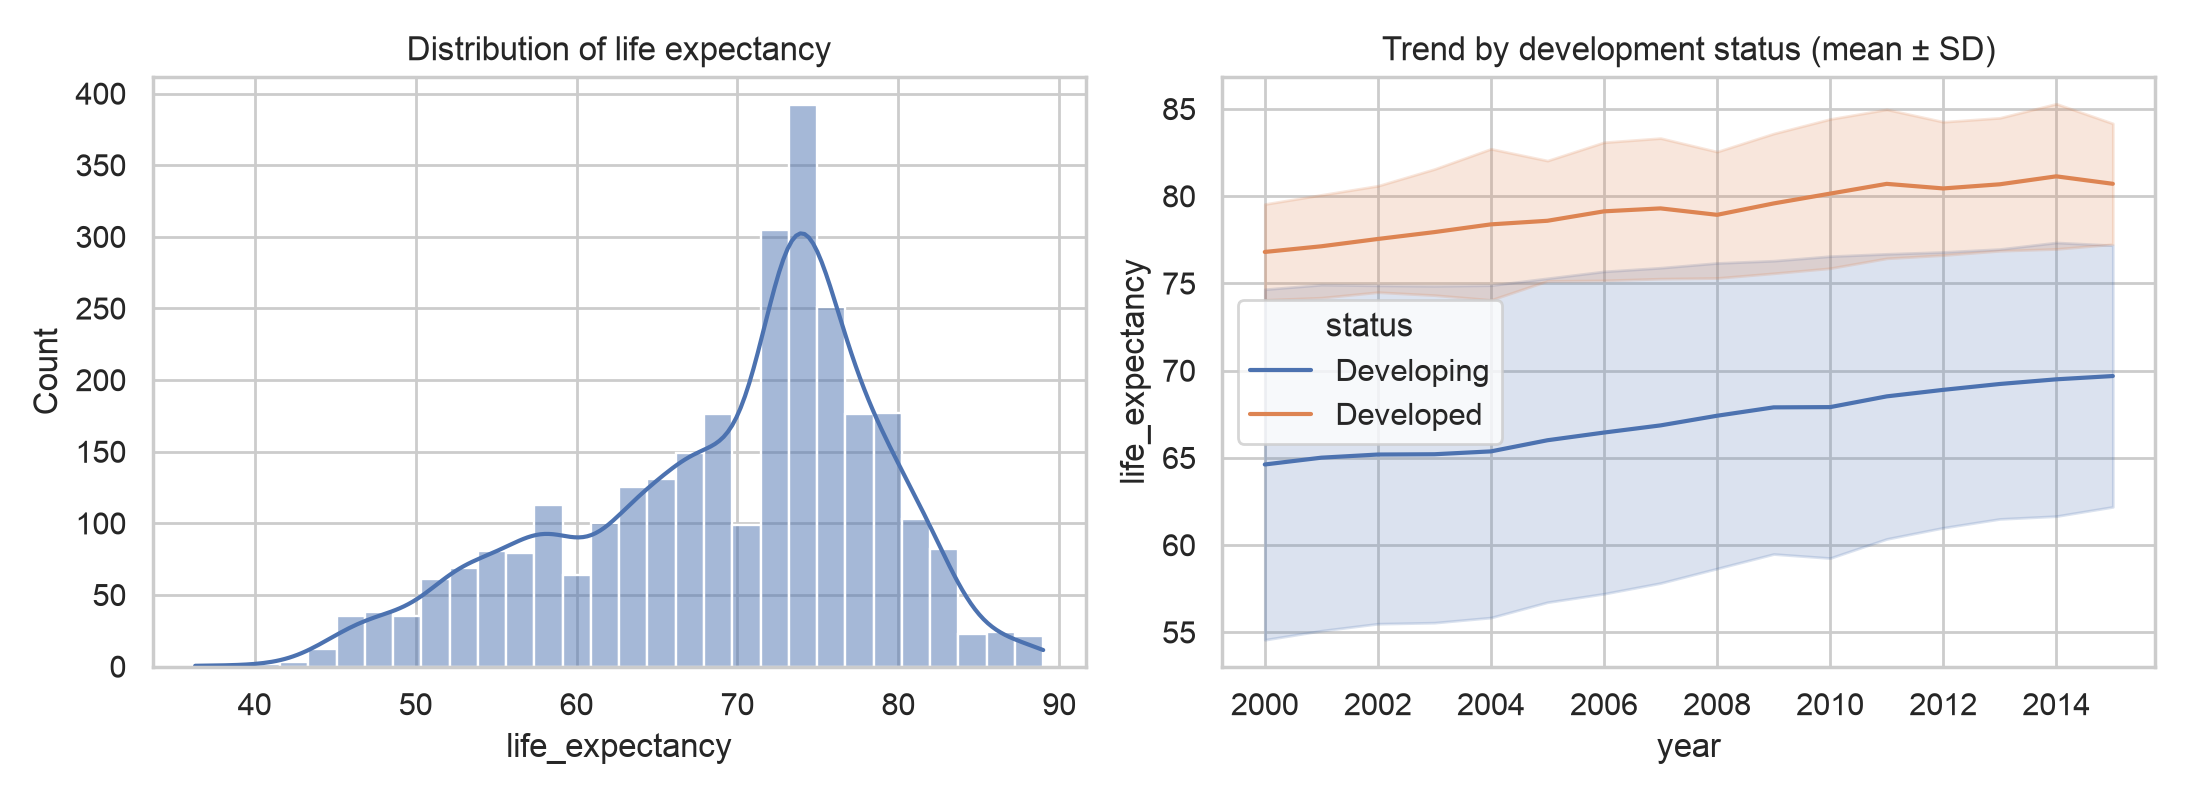
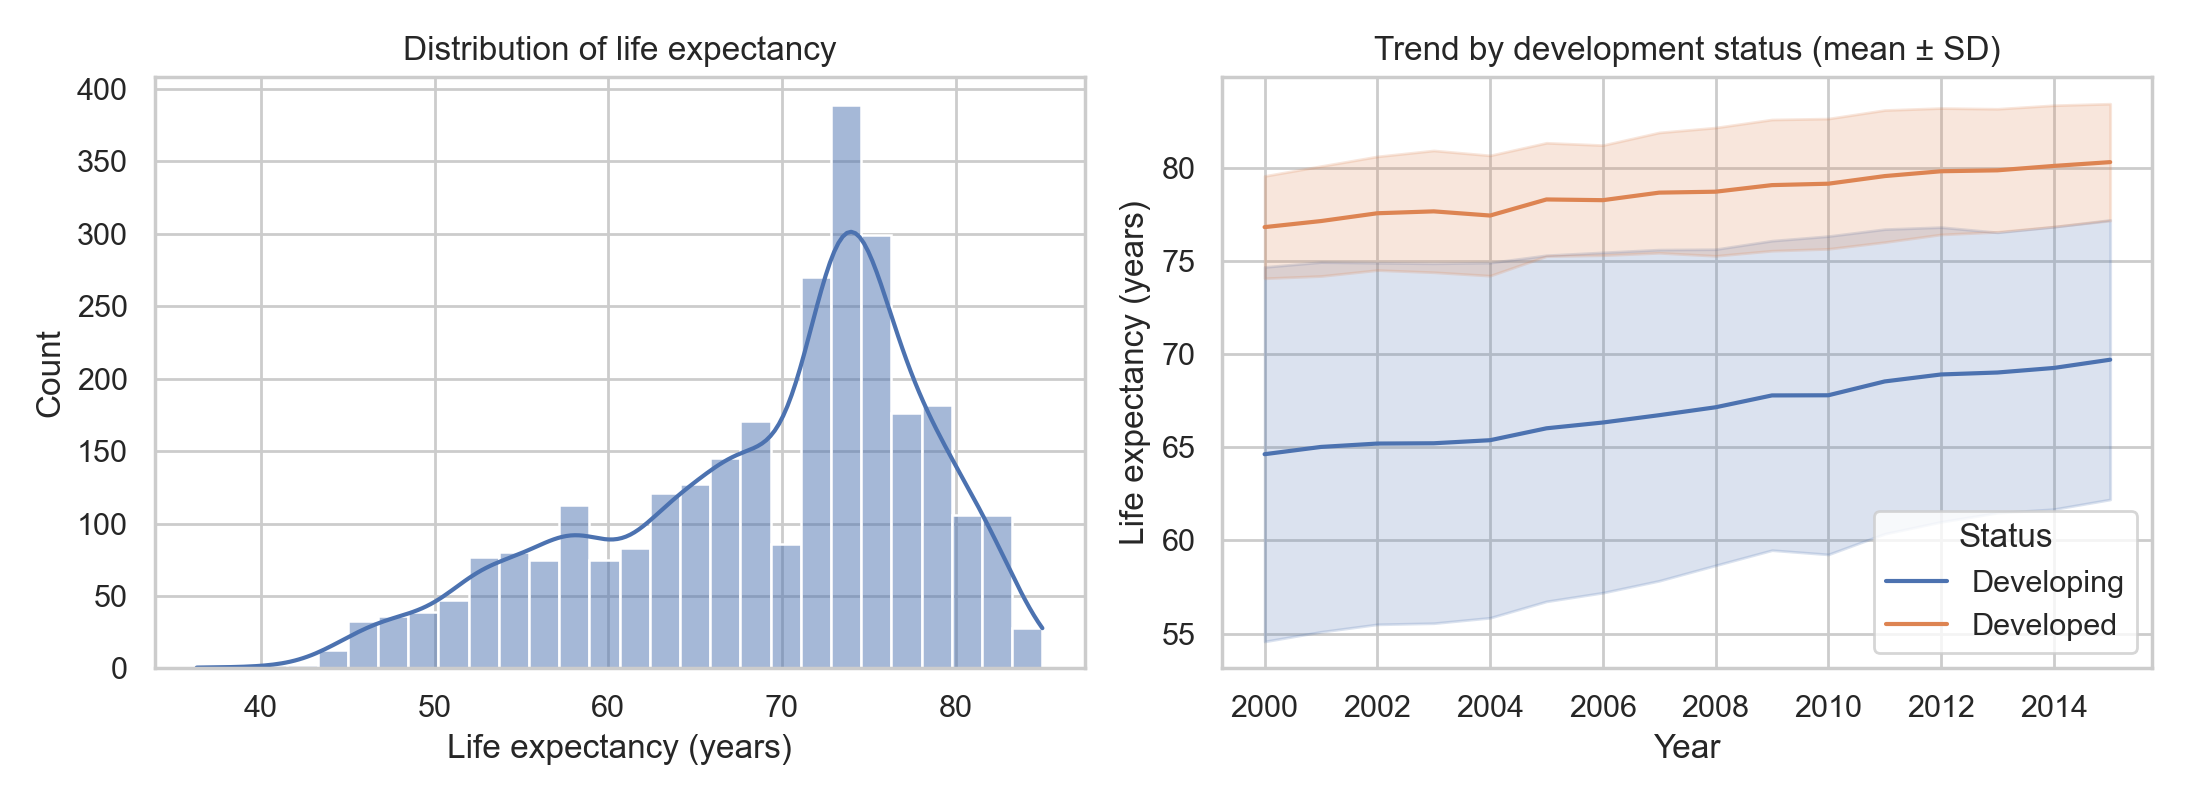
Clean implausible values, add sensitivity checks and slopes by status

diff --git a/analysis.py b/analysis.py
@@ -61,6 +61,13 @@ df = df.dropna()
 df["log_gdp"] = np.log(df["gdp"].clip(lower=1))
 df["log_hiv"] = np.log1p(df["hiv_aids"])
 df["developed"] = (df["status"] == "Developed").astype(int)
+df_full = df.copy()  # kept for the sensitivity analysis
+
+# Remove impossible values: no country's national life expectancy exceeded ~84 years in 2000-2015
+implausible = df["life_expectancy"] > 85
+print(f"Dropping {implausible.sum()} rows with life expectancy > 85 (data errors). By country:")
+print(df.loc[implausible, "country"].value_counts().head(15).to_string())
+df = df[~implausible].copy()
 print("Clean shape:", df.shape, "| countries:", df["country"].nunique())
 
 # ----------------------------------------------------------------------------
@@ -68,9 +75,10 @@ print("Clean shape:", df.shape, "| countries:", df["country"].nunique())
 # ----------------------------------------------------------------------------
 fig, ax = plt.subplots(1, 2, figsize=(11, 4))
 sns.histplot(df["life_expectancy"], kde=True, ax=ax[0])
-ax[0].set_title("Distribution of life expectancy")
+ax[0].set(title="Distribution of life expectancy", xlabel="Life expectancy (years)")
 sns.lineplot(data=df, x="year", y="life_expectancy", hue="status", errorbar="sd", ax=ax[1])
-ax[1].set_title("Trend by development status (mean ± SD)")
+ax[1].set(title="Trend by development status (mean ± SD)", xlabel="Year", ylabel="Life expectancy (years)")
+sns.move_legend(ax[1], "lower right", title="Status")
 plt.tight_layout(); plt.savefig(OUT / "figures/fig1_distribution_trend.png", dpi=200); plt.close()
 
 feats = ["adult_mortality", "log_hiv", "schooling", "income_composition_of_resources",
@@ -81,10 +89,11 @@ sns.heatmap(df[["life_expectancy"] + feats].corr(), annot=True, fmt=".2f", cmap=
 plt.title("Correlation matrix")
 plt.tight_layout(); plt.savefig(OUT / "figures/fig2_correlations.png", dpi=200); plt.close()
 
-plt.figure(figsize=(6.5, 4.5))
-sns.scatterplot(data=df, x="schooling", y="life_expectancy", hue="status", alpha=0.5)
-plt.title("Schooling vs life expectancy")
-plt.tight_layout(); plt.savefig(OUT / "figures/fig3_schooling_scatter.png", dpi=200); plt.close()
+g = sns.lmplot(data=df, x="schooling", y="life_expectancy", hue="status", height=4.5, aspect=1.4,
+               scatter_kws={"alpha": 0.3, "s": 14}, facet_kws={"legend_out": False})
+g.set_axis_labels("Schooling (years)", "Life expectancy (years)")
+g.ax.set_title("Schooling vs life expectancy (descriptive OLS lines by status)")
+g.savefig(OUT / "figures/fig3_schooling_scatter.png", dpi=200); plt.close("all")
 
 # ----------------------------------------------------------------------------
 # 3a. Inference: mixed-effects model (random intercept + random year slope per country)
@@ -96,11 +105,25 @@ plt.tight_layout(); plt.savefig(OUT / "figures/fig3_schooling_scatter.png", dpi=
 # year is included to absorb the general upward trend over time.
 model_feats = ["year", "log_hiv", "schooling", "log_gdp", "polio", "diphtheria",
                "total_expenditure", "alcohol"]
-z = df.copy()
-z[model_feats] = (z[model_feats] - z[model_feats].mean()) / z[model_feats].std()  # standardize
-
 formula = "life_expectancy ~ " + " + ".join(model_feats) + " + developed + schooling:developed"
-mixed = smf.mixedlm(formula, z, groups=z["country"], re_formula="~year").fit(reml=True)
+
+
+def standardize(d):
+    d = d.copy()
+    d[model_feats] = (d[model_feats] - d[model_feats].mean()) / d[model_feats].std()
+    return d
+
+
+def fit(d):
+    return smf.mixedlm(formula, d, groups=d["country"], re_formula="~year").fit(reml=True)
+
+
+z = standardize(df)
+sd = pd.DataFrame({"mean": df[model_feats].mean(), "sd": df[model_feats].std()}).round(3)
+print("Standardization constants (model coefficients are per 1 SD of these):")
+print(sd.to_string())
+sd.to_csv(OUT / "standardization_constants.csv")
+mixed = fit(z)
 print(mixed.summary())
 
 coef = pd.DataFrame({"coef": mixed.fe_params, "se": mixed.bse_fe, "p": mixed.pvalues[mixed.fe_params.index]})
@@ -111,8 +134,11 @@ coef.round(3).to_csv(OUT / "mixed_model_coefficients.csv")
 c = coef.drop("Intercept").sort_values("coef")
 plt.figure(figsize=(7, 5))
 plt.errorbar(c["coef"], range(len(c)), xerr=1.96 * c["se"], fmt="o", capsize=3)
-plt.yticks(range(len(c)), c.index); plt.axvline(0, color="grey", ls="--")
-plt.xlabel("Effect on life expectancy (years per 1 SD)")
+nice = {"year": "Year", "log_hiv": "HIV/AIDS (log)", "schooling": "Schooling", "log_gdp": "GDP (log)",
+        "polio": "Polio coverage", "diphtheria": "Diphtheria coverage", "total_expenditure": "Health expenditure",
+        "alcohol": "Alcohol", "developed": "Developed (vs developing)", "schooling:developed": "Schooling × developed"}
+plt.yticks(range(len(c)), [nice.get(k, k) for k in c.index]); plt.axvline(0, color="grey", ls="--")
+plt.xlabel("Effect on life expectancy (years)\nper 1 SD for continuous predictors")
 plt.title("Mixed-effects model: fixed effects (95% CI)")
 plt.tight_layout(); plt.savefig(OUT / "figures/fig4_coefficients.png", dpi=200); plt.close()
 
@@ -126,21 +152,43 @@ sm.qqplot(resid, line="s", ax=ax[1], markersize=3)
 ax[1].set_title("Q-Q plot of residuals")
 plt.tight_layout(); plt.savefig(OUT / "figures/fig6_residual_diagnostics.png", dpi=200); plt.close()
 
-# Largest residuals and sensitivity check (refit without them)
-top = resid.abs().nlargest(10).index
-print(df.loc[top, ["country", "year", "life_expectancy"]])
-z2 = z.drop(top)
-m2 = smf.mixedlm(formula, z2, groups=z2["country"], re_formula="~year").fit(reml=True)
+# Large residuals (|residual| > 5 years)
+big = resid.abs() > 5
+print(f"Rows with |residual| > 5: {int(big.sum())}")
+print(df.assign(resid=resid).loc[big, ["country", "year", "life_expectancy", "resid"]]
+        .sort_values("resid", ascending=False).to_string())
+
+# Sensitivity 1: keep the implausible rows (full data)
+m_full = fit(standardize(df_full))
+# Sensitivity 2: additionally drop rows with |residual| > 5 from the cleaned model
+m_trim = fit(z.loc[~big])
+
 sens = pd.DataFrame({
     "main_coef": mixed.fe_params, "main_p": mixed.pvalues[mixed.fe_params.index],
-    "sens_coef": m2.fe_params, "sens_p": m2.pvalues[m2.fe_params.index],
+    "full_data_coef": m_full.fe_params, "full_data_p": m_full.pvalues[m_full.fe_params.index],
+    "trim_resid5_coef": m_trim.fe_params, "trim_resid5_p": m_trim.pvalues[m_trim.fe_params.index],
 })
-print(sens.round(3))
+print(sens.round(3).to_string())
 sens.round(3).to_csv(OUT / "sensitivity_comparison.csv")
-print("Countries with residuals above +5:")
 
-# Which countries drive the positive-residual streaks in Fig. 6?
-print(df.assign(resid=resid).query("resid > 5").groupby("country").size().sort_values(ascending=False).head(10))
+
+# Schooling slope by development status (answers research question 2 directly)
+def slopes(m, label):
+    b = m.fe_params
+    k = len(b)
+    V = pd.DataFrame(np.asarray(m.cov_params())[:k, :k], index=b.index, columns=b.index)
+    a, i = "schooling", "schooling:developed"
+    rows = []
+    for grp, est, var in [("developing", b[a], V.loc[a, a]),
+                          ("developed", b[a] + b[i], V.loc[a, a] + V.loc[i, i] + 2 * V.loc[a, i])]:
+        se = np.sqrt(var)
+        rows.append({"model": label, "group": grp, "slope": est, "ci_low": est - 1.96 * se, "ci_high": est + 1.96 * se})
+    return rows
+
+
+sl = pd.DataFrame(slopes(mixed, "main") + slopes(m_full, "full_data") + slopes(m_trim, "trim_resid5")).round(3)
+print(sl.to_string(index=False))
+sl.to_csv(OUT / "schooling_slopes_by_status.csv", index=False)
 
 # ----------------------------------------------------------------------------
 # 3b. Validity check: predictive performance with country-grouped CV
@@ -167,7 +215,7 @@ cv.to_csv(OUT / "cv_results.csv", index=False)
 rf = models["Random forest"].fit(X, y)
 imp = pd.Series(rf.feature_importances_, index=X.columns).sort_values()
 plt.figure(figsize=(6.5, 4.5)); imp.plot.barh()
-plt.title("Random forest feature importance"); plt.xlabel("Importance")
+plt.title("Random forest feature importance"); plt.xlabel("Impurity-based importance")
 plt.tight_layout(); plt.savefig(OUT / "figures/fig5_rf_importance.png", dpi=200); plt.close()
 
 print("Done. Results in ./outputs")

diff --git a/README.md b/README.md
@@ -7,7 +7,7 @@ Which health and socioeconomic factors are most strongly associated with life ex
 
 ## Data
 Kaggle "Life Expectancy (WHO)" (`kumarajarshi/life-expectancy-who`), compiled from WHO Global Health Observatory and UN data.
-2,938 country-year records, 22 variables, 2000-2015. After cleaning: 2,928 observations, 183 countries.
+2,938 country-year records, 22 variables, 2000-2015. After cleaning: 2,883 observations from 183 countries.
 
 The data file is not committed. To reproduce, download the CSV from Kaggle and save it as `data/Life Expectancy Data.csv`.
 
@@ -21,6 +21,8 @@ The data file is not committed. To reproduce, download the CSV from Kaggle and s
     ├── figures/           # fig1-fig6 used in the report
     ├── mixed_model_coefficients.csv
     ├── sensitivity_comparison.csv
+    ├── schooling_slopes_by_status.csv
+    ├── standardization_constants.csv
     └── cv_results.csv
 ```
 
@@ -31,30 +33,33 @@ source venv/bin/activate        # Windows: venv\Scripts\activate
 pip install -r requirements.txt
 python analysis.py
 ```
-Runs in well under a minute. All outputs are written to `outputs/`.
+All outputs are written to `outputs/`.
 
 ## Methods
-1. **Cleaning:** normalised column names; rows without life expectancy dropped; zeros in schooling and income composition treated as missing; within-country linear interpolation, then status-year median imputation; log transforms for GDP and HIV/AIDS; BMI, under-five deaths, population and measles excluded; adult mortality excluded from models (near-circular with the outcome).
-2. **Inference:** linear mixed-effects model with country-specific random intercepts and year slopes; predictors standardised (coefficients are years of life expectancy per 1 SD); schooling × development-status interaction.
-3. **Diagnostics and sensitivity:** residual and Q-Q plots; refit after removing the 10 largest residuals.
+1. **Cleaning:** normalised column names; 10 rows without a life expectancy value dropped; 45 rows with life expectancy above 85 years dropped as data errors (no national value exceeded about 84 years in 2000-2015; all are in high-income countries); zeros in schooling and income composition treated as missing; within-country linear interpolation, then status-year median imputation; log transforms for GDP and HIV/AIDS; BMI, under-five deaths, population and measles excluded; adult mortality and income composition of resources excluded from the models (adult mortality is nearly circular with the outcome; income composition correlates 0.92 with schooling).
+2. **Inference:** linear mixed-effects model with country-specific random intercepts and year slopes; predictors standardised (coefficients are years of life expectancy per 1 SD); schooling x development-status interaction. Standardisation constants are in `outputs/standardization_constants.csv`.
+3. **Diagnostics and sensitivity:** residual and Q-Q plots; refit on (a) the full data including the 45 removed rows and (b) the cleaned data excluding rows with |residual| > 5 years.
 4. **Predictive validation:** Lasso and random forest evaluated with country-grouped 5-fold cross-validation, so no country appears in both training and test folds.
 
-## Key results
-| Predictor | Effect (years per 1 SD) | p |
-|---|---|---|
-| HIV/AIDS (log) | -3.28 | <0.001 |
-| Schooling | +2.43 | <0.001 |
-| Year | +0.76 | <0.001 |
-| Developed status | +7.80 | <0.001 |
-| Schooling x developed | -0.84 | 0.13 |
-| GDP, alcohol, health expenditure, polio, diphtheria | not significant | >0.05 |
+## Key results (cleaned data, years per 1 SD)
+| Predictor | Effect | 95% CI | p |
+|---|---|---|---|
+| HIV/AIDS (log) | -3.10 | -3.51, -2.69 | <0.001 |
+| Schooling | +2.24 | 1.76, 2.73 | <0.001 |
+| Year | +0.78 | 0.60, 0.96 | <0.001 |
+| Developed status (binary) | +8.83 | 6.57, 11.08 | <0.001 |
+| Schooling x developed | -1.63 | -2.65, -0.61 | 0.002 |
+| GDP, health expenditure, alcohol, polio | not significant | | >0.05 |
+| Diphtheria | +0.09 | 0.00, 0.18 | 0.050 |
 
-Country-grouped CV: Lasso R² = 0.81 (RMSE 4.0 years), random forest R² = 0.81 (RMSE 4.0 years).
-Conclusions for the main predictors are unchanged when the 10 largest residuals are removed.
+Schooling slope by status: developing +2.24 (CI 1.76, 2.73); developed +0.61 (CI -0.35, 1.57).
+The interaction is also significant when rows with |residual| > 5 are excluded (-1.50, p < 0.001) but not in the uncleaned data that contain the 45 impossible values (-0.84, p = 0.13), so it is sensitive to data quality.
+Country-grouped CV: Lasso R² = 0.82 (RMSE 3.9 years), random forest R² = 0.82 (RMSE 3.9 years).
 
 ## Limitations
 - Associations, not causal effects; country-level data cannot be read as individual-level effects.
-- Heavy imputation for GDP and hepatitis B; a few implausible source values (e.g. 89 years for Spain 2007, Italy 2004).
+- Heavy imputation for GDP and hepatitis B.
+- About 43 further suspicious entries remain in the main data (whole-number values roughly 5-8 years above the model fit); the trimmed sensitivity model addresses them.
 - Only about 32 developed countries, which limits power for the interaction test.
 - Residuals are heavy-tailed, so p-values for small effects are approximate.
 
